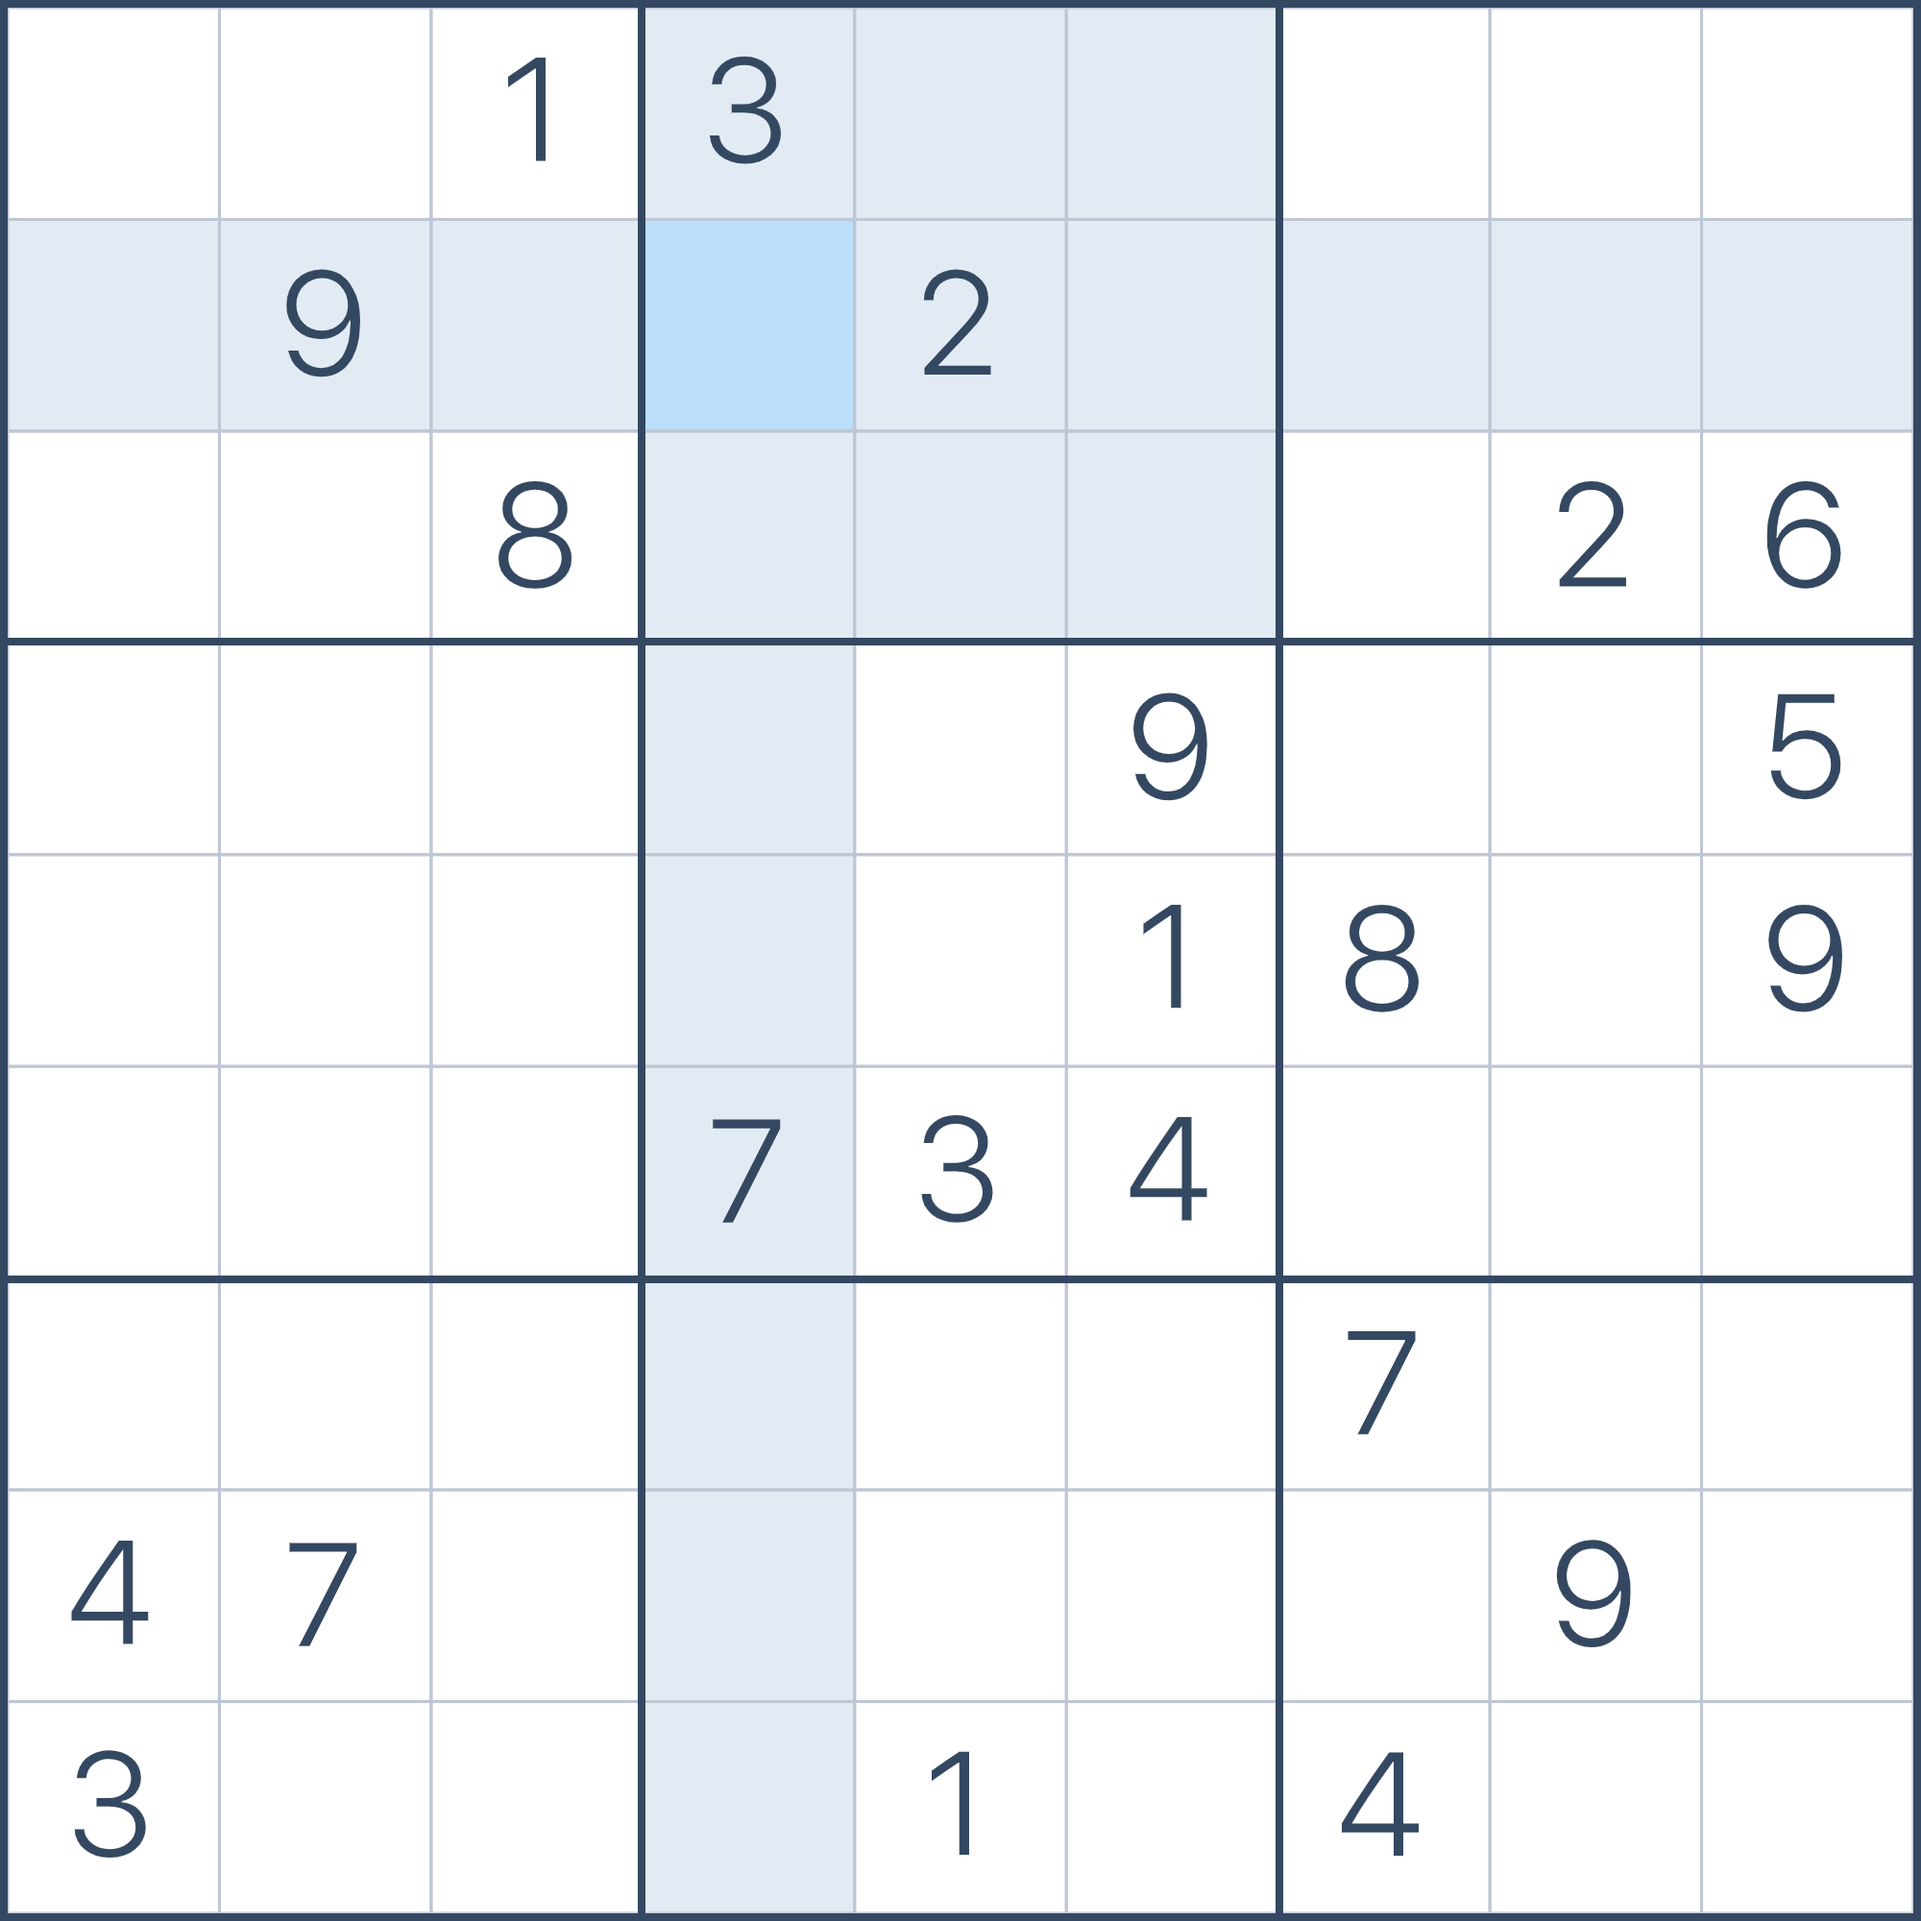
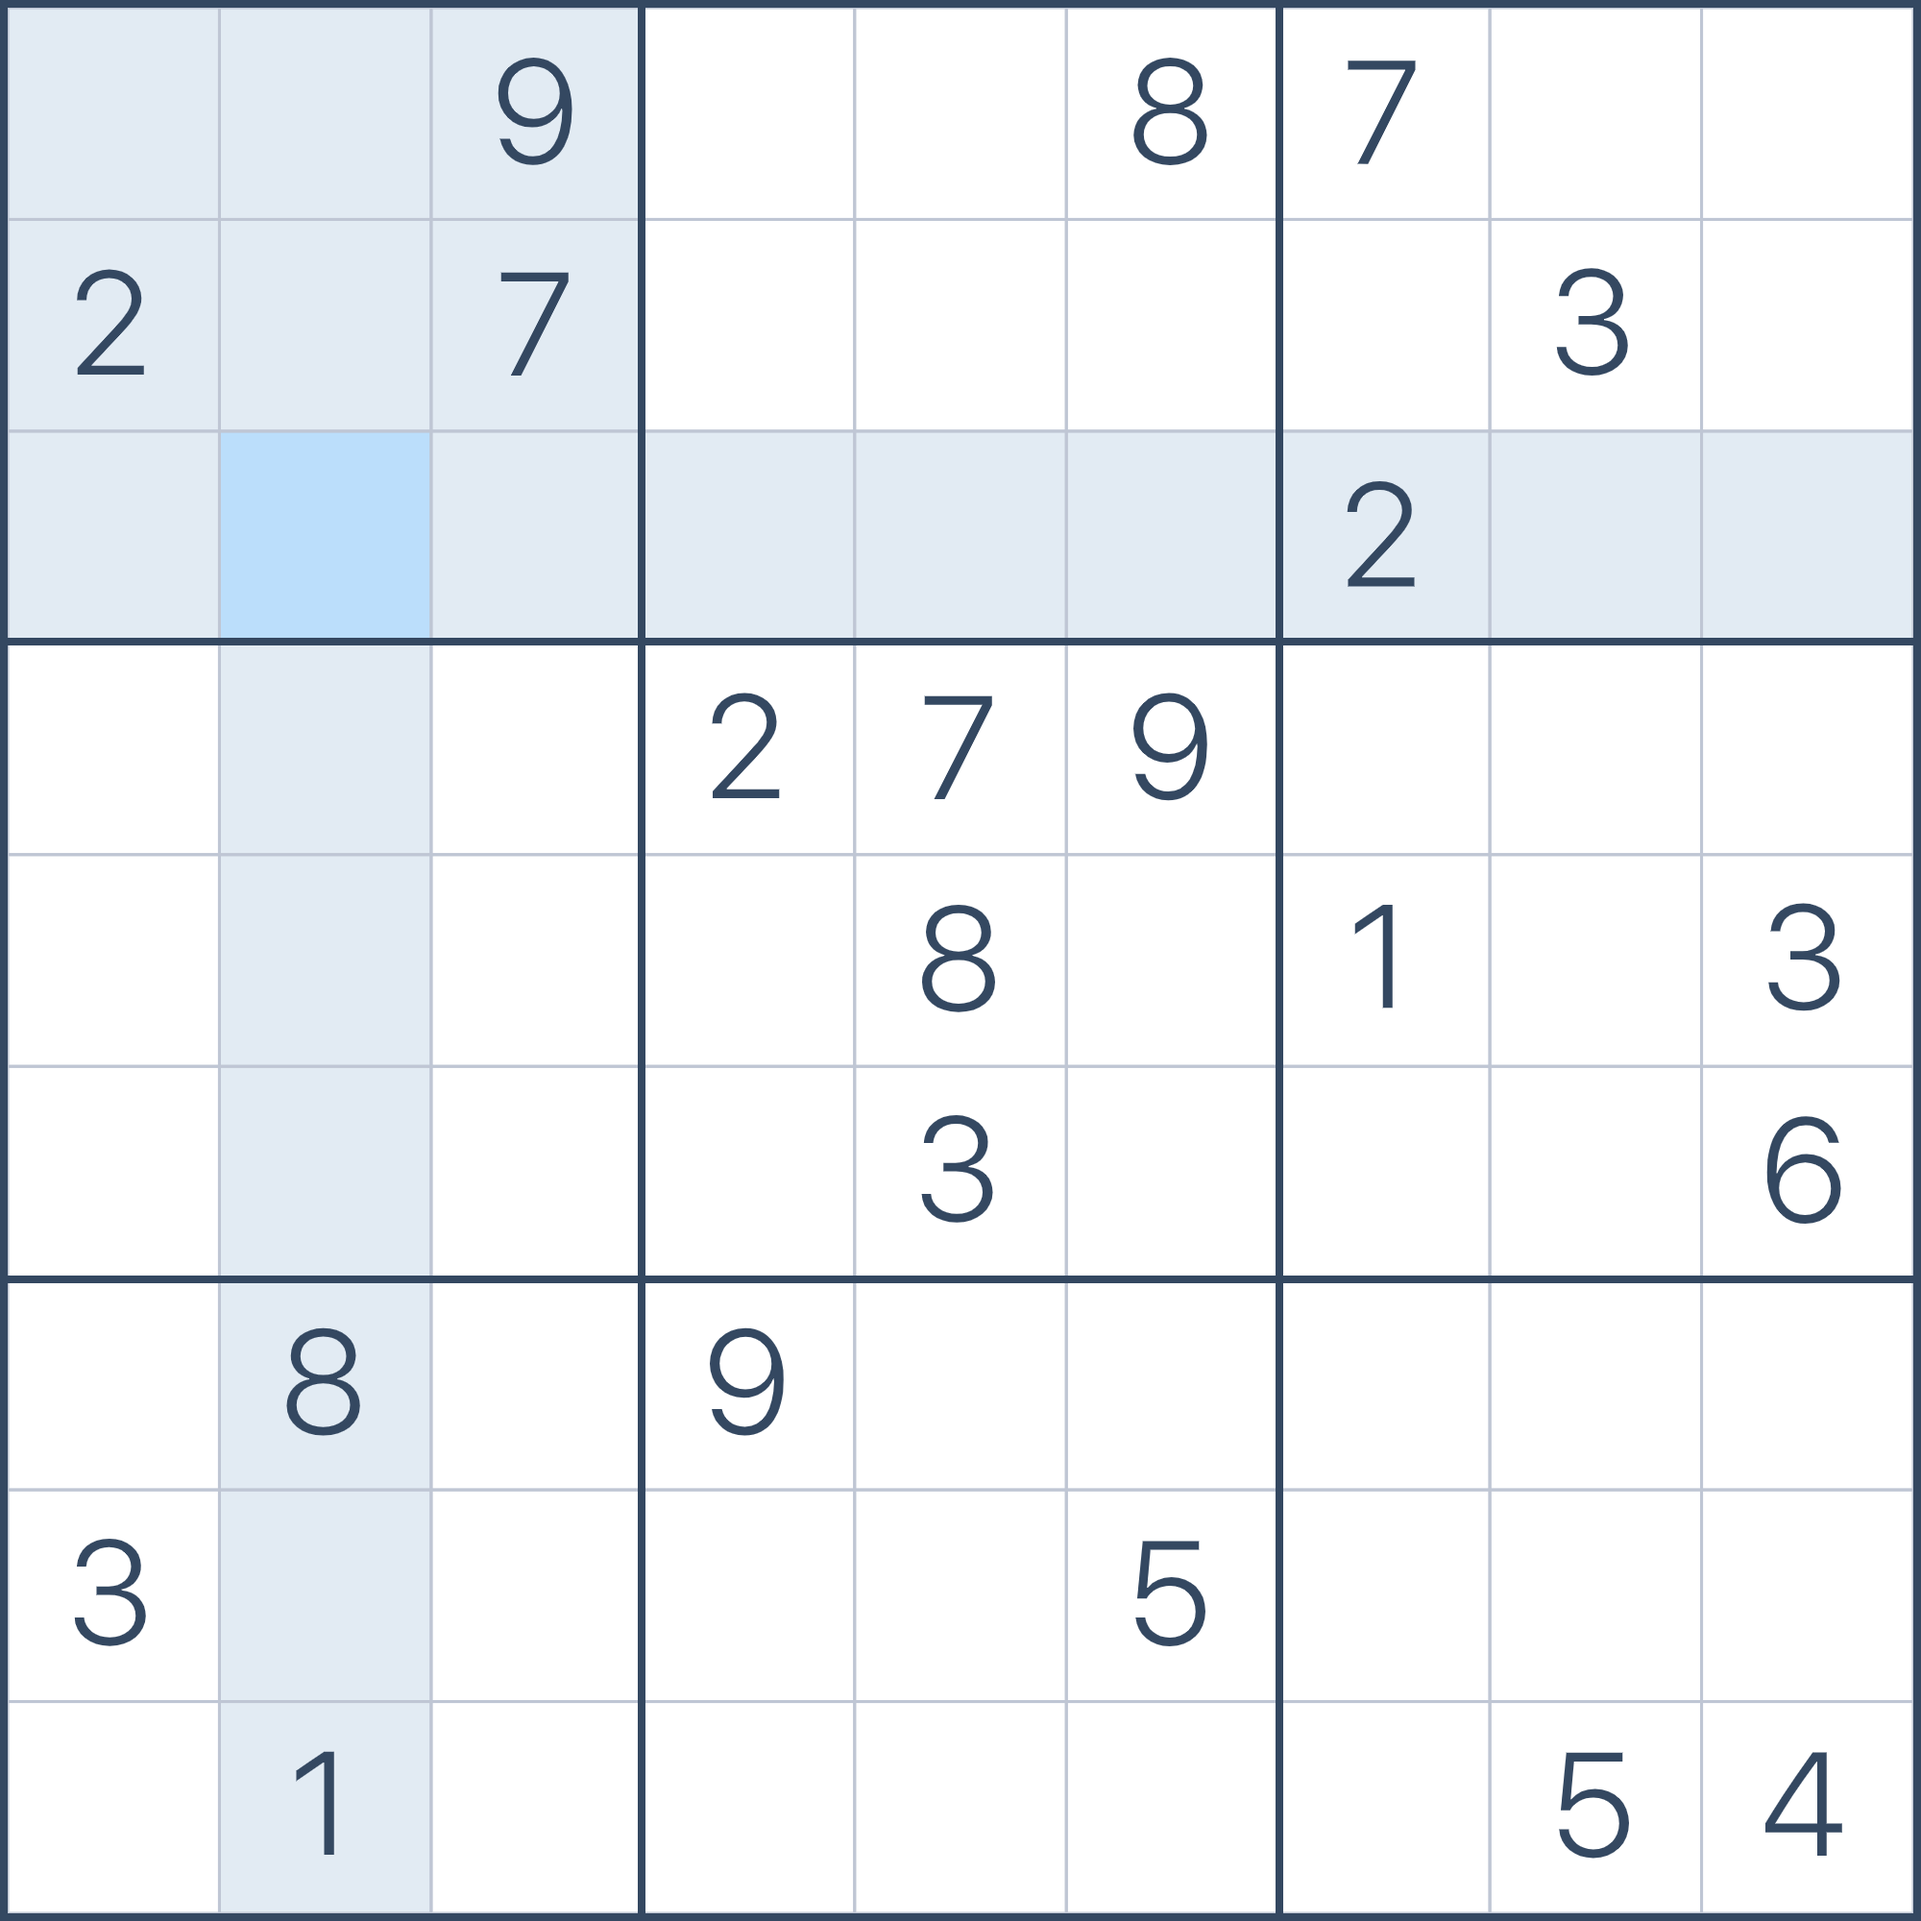
1 whole cycle went successfully

diff --git a/grid_solver.py b/grid_solver.py
@@ -1,3 +1,5 @@
+import pyautogui as pg
+import time
 # fixed grid to solve in unpretty interface
 
 # алгоритм: в ближайшую пустую ячейку подставляешь первое (по возрастанию)
@@ -27,15 +29,15 @@
 
 # expert
 grid = [
-    [0, 0, 0, 0, 0, 0, 0, 0, 0],
-    [0, 3, 0, 0, 0, 9, 0, 5, 0],
-    [0, 0, 9, 8, 2, 0, 0, 1, 3],
-    [1, 0, 7, 0, 9, 0, 0, 0, 0],
-    [3, 0, 0, 0, 0, 0, 0, 4, 5],
-    [0, 0, 0, 0, 0, 0, 0, 0, 6],
-    [0, 2, 0, 0, 7, 4, 0, 0, 0],
-    [0, 0, 0, 9, 0, 0, 0, 0, 0],
-    [0, 6, 0, 1, 0, 5, 4, 0, 0],
+    [0, 0, 1, 3, 0, 0, 0, 0, 0],
+    [0, 9, 0, 0, 2, 0, 0, 0, 0],
+    [0, 0, 8, 0, 0, 0, 0, 2, 6],
+    [0, 0, 0, 0, 0, 9, 0, 0, 5],
+    [0, 0, 0, 0, 0, 1, 8, 0, 9],
+    [0, 0, 0, 7, 3, 4, 0, 0, 0],
+    [0, 0, 0, 0, 0, 0, 7, 0, 0],
+    [4, 7, 0, 0, 0, 0, 0, 9, 0],
+    [3, 0, 0, 0, 1, 0, 4, 0, 0],
 ]
 
 
@@ -64,9 +66,39 @@ def is_possible(x, y, n) -> bool:
             
     return True
 
+# сюда же заносим и печать на сайте
 def print_grid(grid):
+    # локальный вывод
     for i in range(0, 9):
         print(grid[i])
+
+    # вывод на сайте
+    final = []
+    str_final = []
+    for i in range(9):
+        final.append(grid[i])
+
+    for lists in final:
+        for num in lists:
+            str_final.append(str(num))
+    
+    counter = []
+
+    for num in str_final:
+        pg.press(num)
+        pg.hotkey('right')
+        counter.append(num)
+        if len(counter)%9 == 0:
+            pg.hotkey('down')
+            pg.hotkey('left')
+            pg.hotkey('left')
+            pg.hotkey('left')
+            pg.hotkey('left')
+            pg.hotkey('left')
+            pg.hotkey('left')
+            pg.hotkey('left')
+            pg.hotkey('left')
+
 
 
 # это точно рекурсивная функция
@@ -86,6 +118,7 @@ def solve():
                         solve()
                         grid[x][y] = 0
                 return
+    # time.sleep(2)
     print_grid(grid)
     print('\n')
 # # тест на клетки

diff --git a/test_tesseract.py b/test_tesseract.py
@@ -67,7 +67,10 @@ def print_grid(grid):
 
 print_grid(grid)
 
-
+# распознавание
+# https://waksoft.susu.ru/2021/05/18/kak-s-pomoshhyu-python-raspoznat-tekst-v-izobrazheniyah/
+# обрезка
+# https://python-scripts.com/pillow-crop
 
 
 
